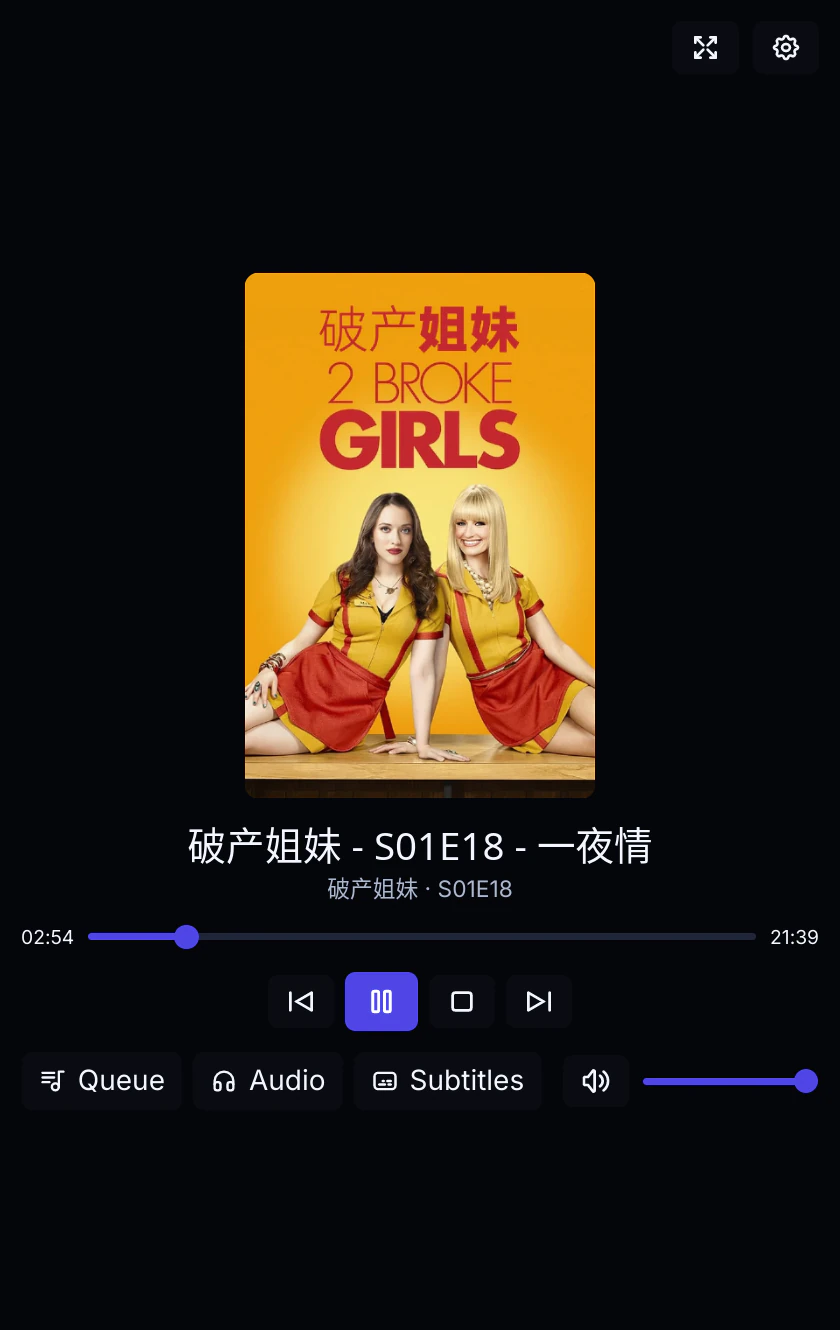
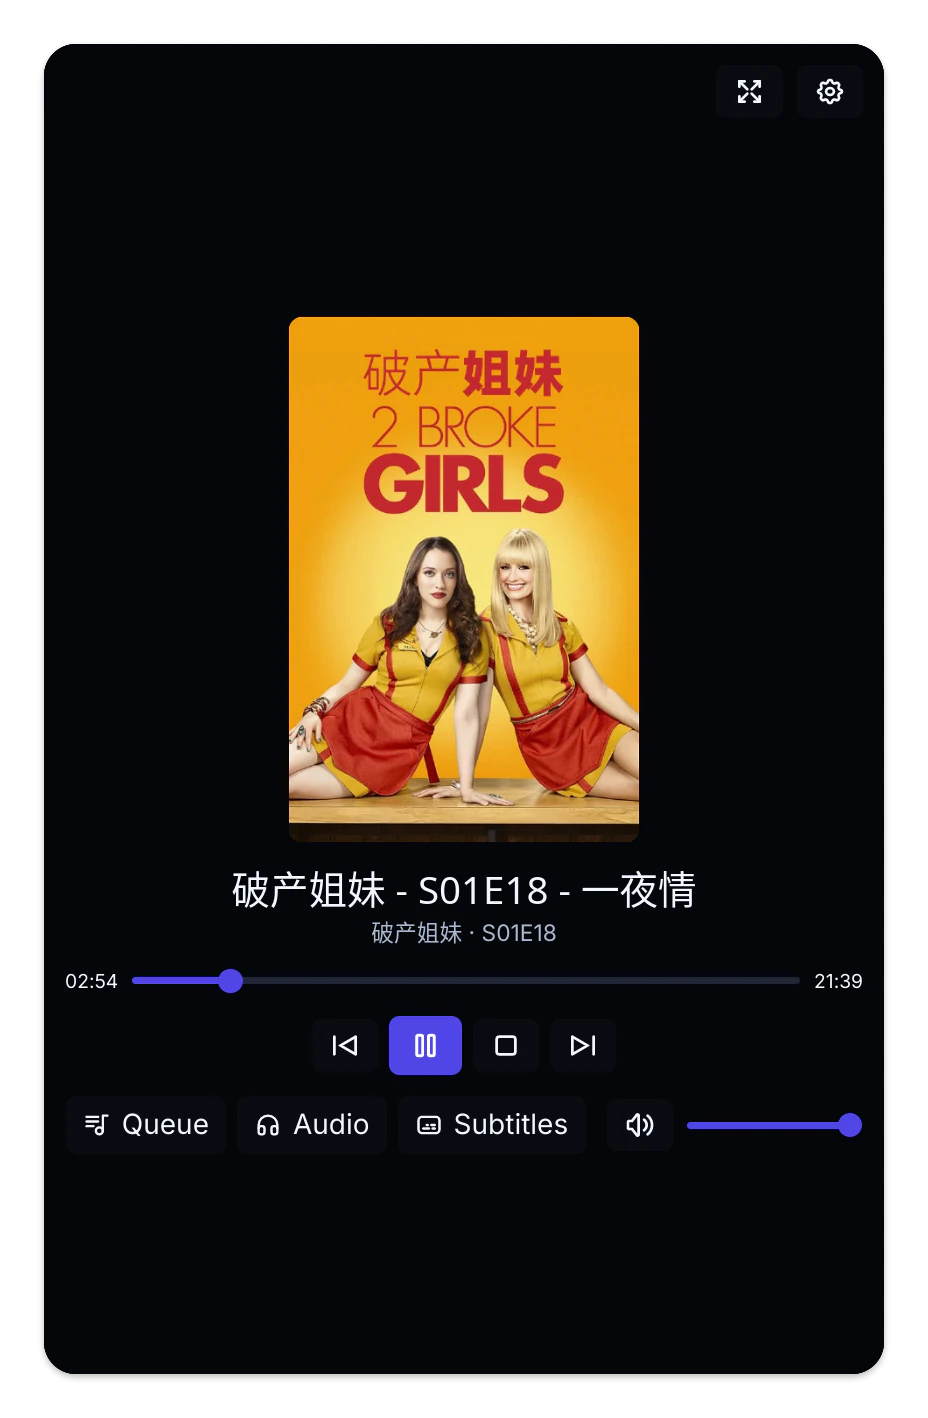
feat(promo): add rounded corners and layered shadows to readme screenshots
Apply rounded corner clipping (52px for full shell, 32px for control
window) and two-tier drop shadows via SVG compositing in render-promo.ts.
Regenerate readme-home.webp, readme-library.webp, and readme-control.webp
with alpha channels preserved.

diff --git a/scripts/render-promo.ts b/scripts/render-promo.ts
@@ -87,6 +87,8 @@ interface ReadmeScreenshot {
   readonly shot: keyof typeof SHOT_FILES;
   readonly width: number;
   readonly height: number;
+  readonly radius: number;
+  readonly padding: number;
 }
 
 const fullCard = (
@@ -320,10 +322,71 @@ const SCENES: readonly Scene[] = [
 ];
 
 const README_SCREENSHOTS: readonly ReadmeScreenshot[] = [
-  { name: 'readme-home', shot: 'darkHome', width: 2623, height: 2135 },
-  { name: 'readme-library', shot: 'lightMovies', width: 2623, height: 2135 },
-  { name: 'readme-control', shot: 'controlDark', width: 840, height: 1330 },
+  {
+    name: 'readme-home',
+    shot: 'darkHome',
+    width: 2623,
+    height: 2135,
+    radius: 52,
+    padding: 72,
+  },
+  {
+    name: 'readme-library',
+    shot: 'lightMovies',
+    width: 2623,
+    height: 2135,
+    radius: 52,
+    padding: 72,
+  },
+  {
+    name: 'readme-control',
+    shot: 'controlDark',
+    width: 840,
+    height: 1330,
+    radius: 32,
+    padding: 44,
+  },
 ];
+
+interface ReadmeRender {
+  readonly svg: string;
+  readonly width: number;
+  readonly height: number;
+}
+
+const renderReadmeScreenshot = (assets: Assets, screenshot: ReadmeScreenshot): ReadmeRender => {
+  const width = screenshot.width + screenshot.padding * 2;
+  const height = screenshot.height + screenshot.padding * 2;
+  const shadowOffset = Math.round(screenshot.padding * 0.22);
+  const shadowBlur = Math.round(screenshot.padding * 0.24);
+  const contactOffset = Math.round(screenshot.padding * 0.06);
+  const contactBlur = Math.round(screenshot.padding * 0.07);
+  const { padding, radius } = screenshot;
+
+  return {
+    width,
+    height,
+    svg: `<svg xmlns="http://www.w3.org/2000/svg" width="${width}" height="${height}" viewBox="0 0 ${width} ${height}">
+  <defs>
+    <clipPath id="readme-clip">
+      <rect x="${padding}" y="${padding}" width="${screenshot.width}" height="${screenshot.height}" rx="${radius}"/>
+    </clipPath>
+    <filter id="readme-shadow" x="0" y="0" width="${width}" height="${height}" filterUnits="userSpaceOnUse" color-interpolation-filters="sRGB">
+      <feDropShadow in="SourceGraphic" dx="0" dy="${shadowOffset}" stdDeviation="${shadowBlur}" flood-color="#000000" flood-opacity="0.18" result="ambient-shadow"/>
+      <feDropShadow in="SourceGraphic" dx="0" dy="${contactOffset}" stdDeviation="${contactBlur}" flood-color="#000000" flood-opacity="0.14" result="contact-shadow"/>
+      <feMerge>
+        <feMergeNode in="ambient-shadow"/>
+        <feMergeNode in="contact-shadow"/>
+        <feMergeNode in="SourceGraphic"/>
+      </feMerge>
+    </filter>
+  </defs>
+  <g filter="url(#readme-shadow)">
+    <image href="${assets.shots[screenshot.shot]}" x="${padding}" y="${padding}" width="${screenshot.width}" height="${screenshot.height}" clip-path="url(#readme-clip)"/>
+  </g>
+</svg>`,
+  };
+};
 
 const loadAssets = async (): Promise<Assets> => {
   const [mark, grotesk, inter, ...shots] = await Promise.all([
@@ -378,24 +441,25 @@ const main = async (): Promise<void> => {
   }
 
   for (const screenshot of README_SCREENSHOTS) {
+    const render = renderReadmeScreenshot(assets, screenshot);
     const webpPath = join(SHOTS_DIR, `${screenshot.name}.webp`);
-    await sharp(join(SHOTS_DIR, SHOT_FILES[screenshot.shot]))
+    await sharp(Buffer.from(render.svg))
       .toColorspace('srgb')
       .webp({ quality: 90, smartSubsample: true, effort: 6 })
       .toFile(webpPath);
     const metadata = await sharp(webpPath).metadata();
     if (
       metadata.format !== 'webp' ||
-      metadata.width !== screenshot.width ||
-      metadata.height !== screenshot.height ||
-      metadata.hasAlpha !== false
+      metadata.width !== render.width ||
+      metadata.height !== render.height ||
+      metadata.hasAlpha !== true
     ) {
       throw new Error(
         `Invalid render for ${screenshot.name}: ${metadata.format} ${metadata.width}x${metadata.height} alpha=${metadata.hasAlpha}`,
       );
     }
     console.log(
-      `rendered assets/screenshots/${screenshot.name}.webp (${screenshot.width}x${screenshot.height})`,
+      `rendered assets/screenshots/${screenshot.name}.webp (${render.width}x${render.height})`,
     );
   }
 };
